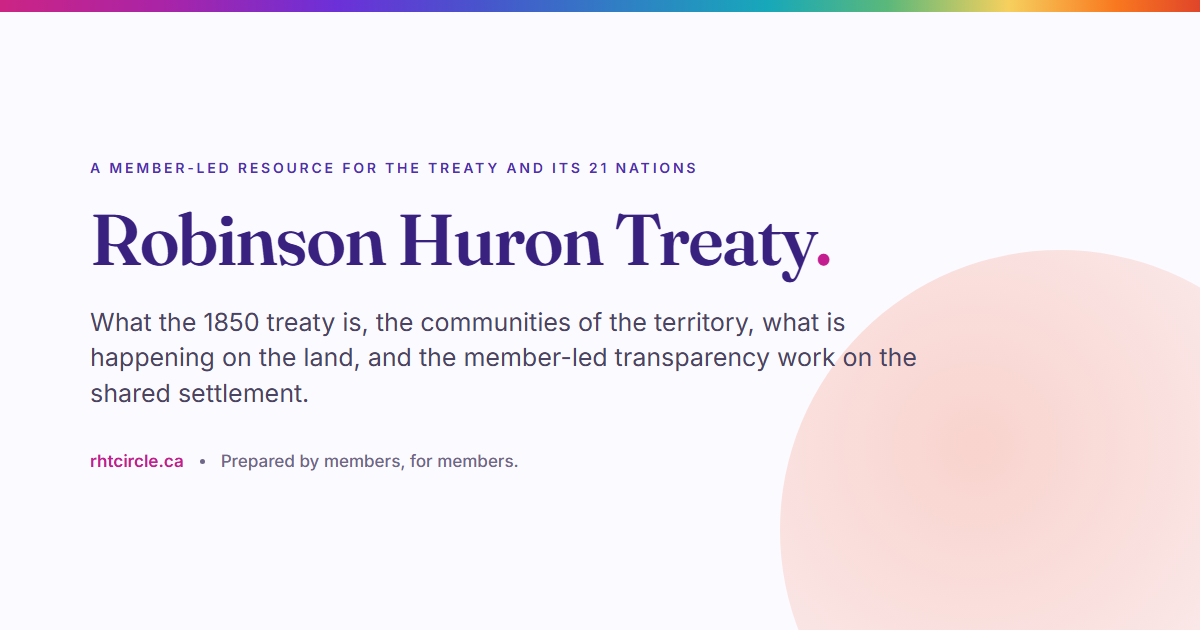
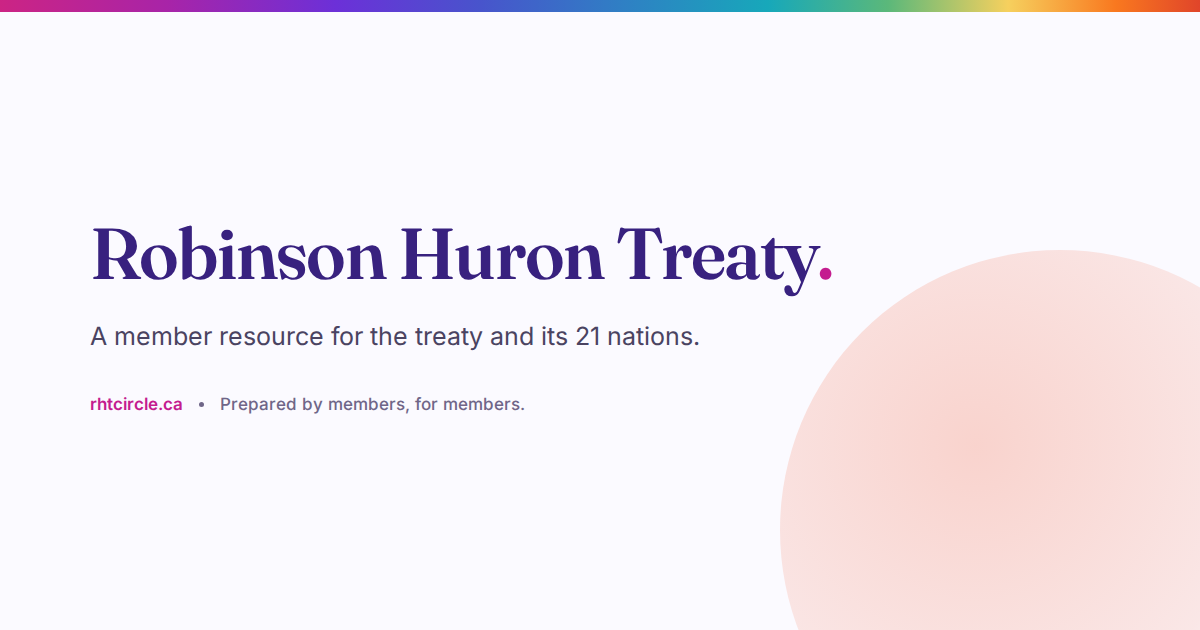
og: neutral brand card as the site default, auto card for the poll page
og-default.png baked in the homepage's own headline and 1850-treaty subline,
so every page without a custom card visually read as the homepage even after
the og:url/canonical fix. Replaced with a neutral brand card: wordmark +
"A member resource for the treaty and its 21 nations." + rhtcircle.ca, no
page-specific copy, so an uncustomized page's own title/description now
carry the specifics instead of contradicting a baked-in headline.

Also picks up the poll page's auto-generated card (was missing entirely).

diff --git a/scripts/og-template.html b/scripts/og-template.html
@@ -61,15 +61,6 @@
       padding: 76px 90px;
     }
 
-    .eyebrow {
-      font-size: 14px;
-      font-weight: 600;
-      letter-spacing: 0.2em;
-      text-transform: uppercase;
-      color: var(--indigo);
-      margin-bottom: 26px;
-    }
-
     h1 {
       font-family: var(--serif);
       font-size: 72px;
@@ -102,9 +93,8 @@
   <div class="coral"></div>
 
   <div class="content">
-    <div class="eyebrow">A member-led resource for the treaty and its 21 nations</div>
     <h1>Robinson Huron Treaty<span class="dot">.</span></h1>
-    <p class="subline">What the 1850 treaty is, the communities of the territory, what is happening on the land, and the member-led transparency work on the shared settlement.</p>
+    <p class="subline">A member resource for the treaty and its 21 nations.</p>
     <div class="foot">
       <span class="url">rhtcircle.ca</span>
       <span class="sep"></span>